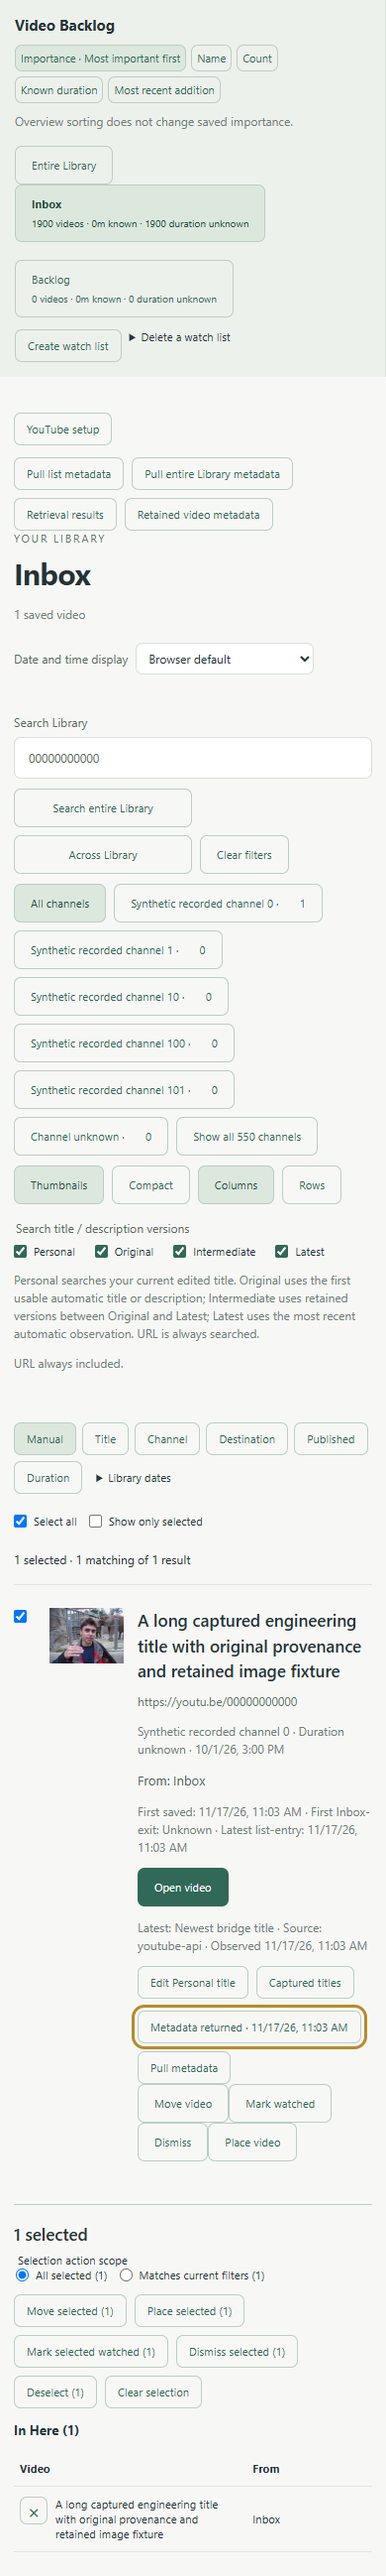
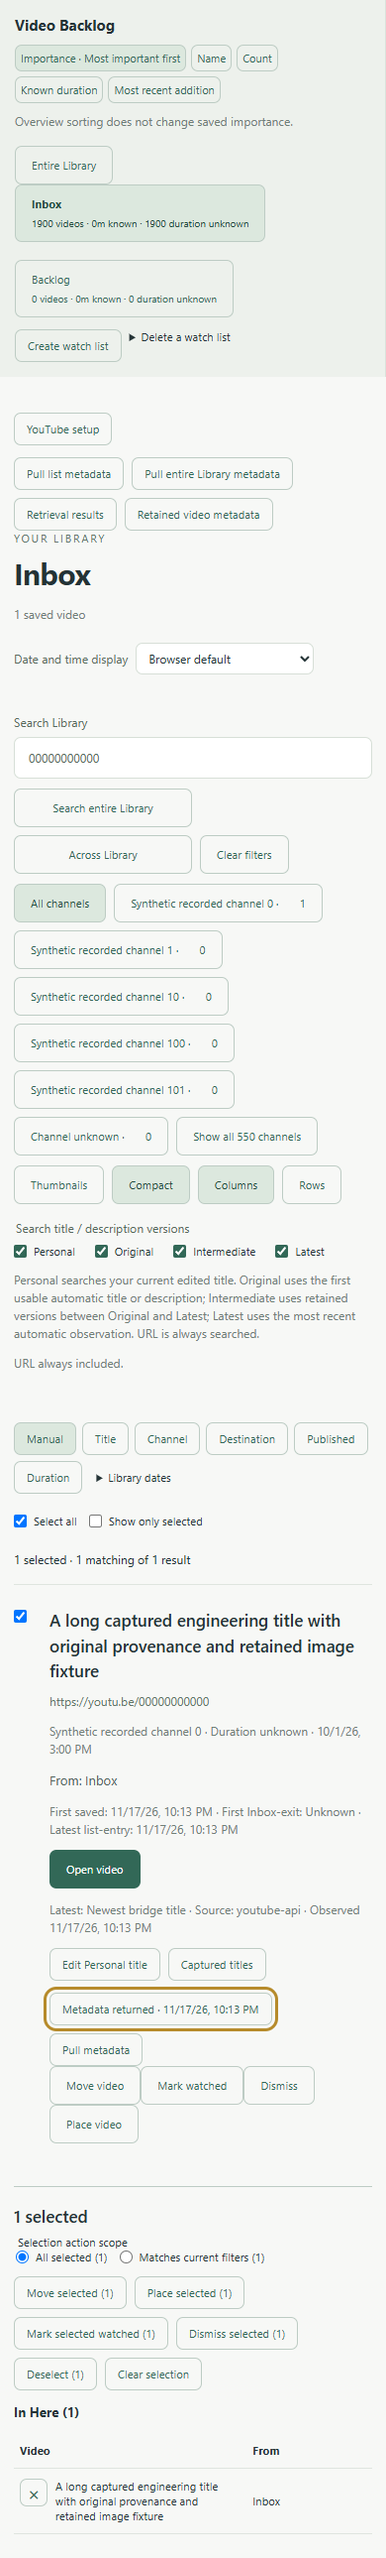
docs: record final two-axis review and correct Compact evidence

diff --git a/tests/browser/metadata-browse.spec.js b/tests/browser/metadata-browse.spec.js
@@ -112,6 +112,9 @@ test('retained metadata browsing scales and both densities keep selected/history
     await page.getByRole('checkbox',{name:'Select all current results',exact:true}).check();
     for(const density of ['Thumbnails','Compact']) {
       await page.getByRole('button',{name:density,exact:true}).click();
+      await expect(page.getByRole('button',{name:density,exact:true})).toHaveAttribute('aria-pressed','true');
+      await expect(page.locator('#records')).toHaveClass(new RegExp(`\\bdensity-${density.toLowerCase()}\\b`));
+      await expect(page.locator('#records')).toHaveAttribute('aria-busy','false');
       for(const width of [1440,390]) {
         await page.setViewportSize({width,height:1000});expect(await page.evaluate(()=>document.documentElement.scrollWidth<=innerWidth)).toBe(true);
         await page.screenshot({path:resolve(output,`${density}-${width}-selected.png`),fullPage:true});

diff --git a/docs/validation/final-enrichment-review.md b/docs/validation/final-enrichment-review.md
@@ -1,0 +1,27 @@
+# Final combined enrichment review
+
+Reviewed PR #68 at `f1cb11a6a798cd936e79b609c6ac08b90e0f8628` against pinned base `d4fc355452bf6c03278b34f6f1e6fb3d49b10a10`, using the three-dot diff and full commit list. Independent Standards and Spec agents reviewed the complete combined branch, including setup, thumbnail and close-control repairs.
+
+The initial implementation already had a two-axis review: one Standards finding and three Spec findings were fixed and independently rechecked. Later owner-test repairs received focused code reviews. This final combined review closes the gap between those incremental reviews and the `implement` skill's final `code-review` step.
+
+## Standards
+
+One documented readiness finding, with no runtime-standard breach or substantive Fowler-smell finding: the screenshot captioned "Selected Compact row at narrow width" actually showed Thumbnails mode. `CODING_STANDARDS.md` and `docs/agents/design.md` require rendered evidence matching the claimed density and selected state. This was an evidence problem, not proof of a production density defect.
+
+Resolution: the capture workflow now waits for the requested density button's pressed state, the rendered row density and completed rendering before taking pictures. The selected Compact screenshot was regenerated and visually inspected: Compact is selected, the row is selected and no thumbnail is shown. All three metadata-browse browser workflows passed against unchanged production code, including the 1,000/3,000-record scenarios.
+
+The independent Standards reviewer rechecked the replacement picture, waits and report and confirmed the finding resolved. No hard standard breach, substantive smell judgment or outstanding rendered-evidence gap remained in that review.
+
+The Standards reviewer also inspected the full changed services, UI, provider integration, tests, documented standards/ADRs, accepted prototype source and rendered evidence. Retained images, non-color version selection and reachable close controls matched applicable references. General UI polish and toolbar relocation remain the owner's explicit #51 deferral.
+
+## Spec
+
+No actionable findings. The reviewer checked #65–#67, the approved manual-first spec and governing enrichment/recovery contracts, tracing credential replacement, cancellation between image attempts, shared requests, durable completion/reconciliation, explicit retries, missing fields, image history, version search and user-only recovery.
+
+No confirmed missing requirement, unrequested product behavior or incorrect implementation remained. Automatic refresh, clearing, backups and toolbar relocation remain deferred.
+
+## Evidence limits and delivery
+
+Both full reviewers performed source/test/evidence inspection without credential access, provider requests or personal profiles. The unchanged production revision already passed 66 boundary and all 130 installed-Chrome workflows. The evidence-only follow-up passed all three metadata-browse workflows; the entire suite was not repeated for screenshot/test-wait/documentation changes.
+
+The existing `0.1.0 / f1cb11a` archive remains the installable build: this follow-up changes tests and review evidence only, with no extension code changes. Prior owner acceptance of metadata, thumbnails and close controls remains recorded. No merge into main is implied by review completion.

diff --git a/docs/validation/manual-youtube-enrichment.md b/docs/validation/manual-youtube-enrichment.md
@@ -33,6 +33,8 @@ The production Chrome restart evidence is retained in [chrome-restarts.json](man
 
 ## Independent review
 
+The [final combined-branch review](final-enrichment-review.md) rechecks the complete delivered implementation after all owner-test repairs. The review below records the initial implementation findings and their fixes.
+
 ### Standards
 
 One documented-standard finding: selected metadata tabs originally depended on background color. A stable double border now distinguishes selection independently of color and preserves `aria-pressed` and control dimensions. The reviewer inspected desktop/narrow rendered evidence and confirmed resolution. No substantive Fowler heuristic findings remained.
